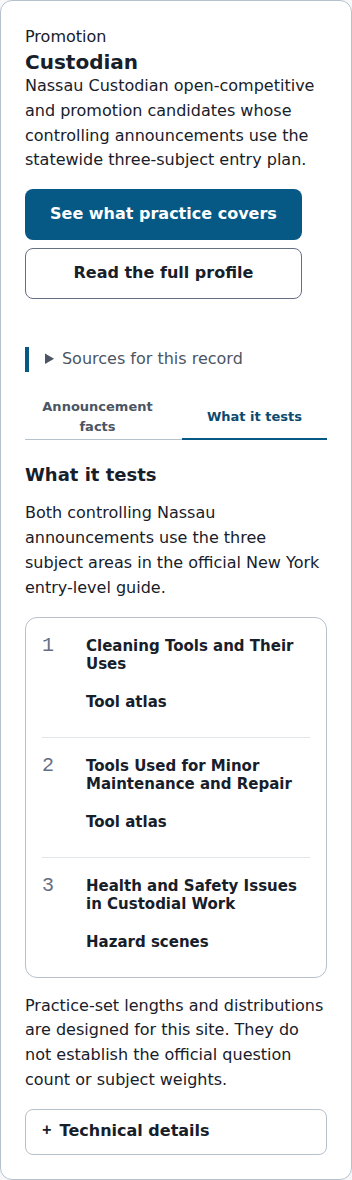
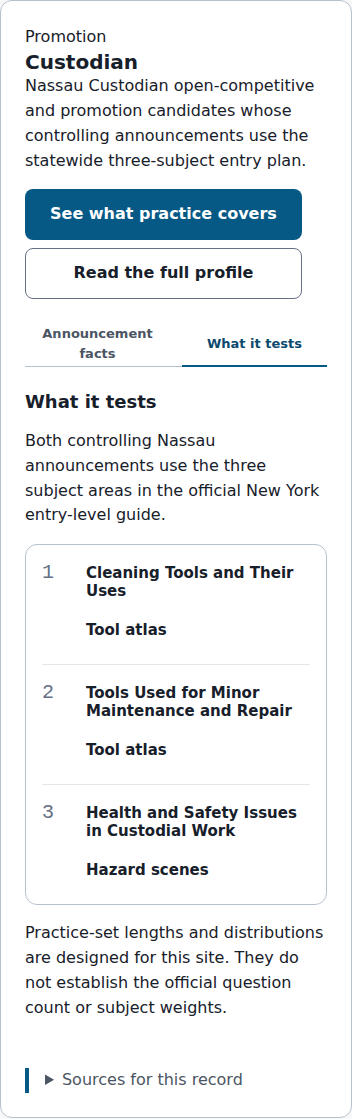
Consolidate Exams record sources and align registry controls

diff --git a/apps/site/scripts/generate-pages.tsx b/apps/site/scripts/generate-pages.tsx
@@ -1395,16 +1395,17 @@ const buildPages = ({
     <div class="home-content">
       ${renderAnnouncementMilestones(announcementFacts, sourceLineById, sourceById, "exams-cycle")}
       <section class="home-section" id="exams-board" data-exam-browser aria-labelledby="exam-board-heading"><div class="section-header"><h2 id="exam-board-heading">Find your exam</h2><p>Open an entry to compare its facts. Your official announcement and admission notice govern your exam.</p></div>
-        <div class="search-field" data-exam-search-field hidden><label class="sr-only" for="exam-search">Search announcements and study plans</label>${navIcon("search")}<input id="exam-search" type="search" data-exam-search placeholder="Title, jurisdiction, or exam number" autocomplete="off"></div>
-        <div class="filter-group" role="group" aria-label="Filing status at source review" data-exam-status-filters hidden>${[["all", "All"], ["open", "Open for filing"], ["closed", "Filing closed"], ["plan", "Plan only"]].map(([value, label]) => `<button type="button" data-exam-status-filter="${value}" aria-pressed="${value === "all"}">${label}</button>`).join("")}</div>
+        <div class="exam-search-controls"><div class="search-field" data-exam-search-field hidden><label class="sr-only" for="exam-search">Search announcements and study plans</label>${navIcon("search")}<input id="exam-search" type="search" data-exam-search placeholder="Title, jurisdiction, or exam number" autocomplete="off"></div>
+        <div class="filter-group" role="group" aria-label="Filing status at source review" data-exam-status-filters hidden>${[["all", "All"], ["open", "Open for filing"], ["closed", "Filing closed"], ["plan", "Plan only"]].map(([value, label]) => `<button type="button" data-exam-status-filter="${value}" aria-pressed="${value === "all"}">${label}</button>`).join("")}</div></div>
         <p class="source-note">Filing labels describe the announcement at its source review date. Later notices or filing periods may exist.</p>
         <p class="source-note" data-exam-count role="status">${examRecords.length} entries in the published registry.</p>
         <div class="record-board"><ul class="record-list" aria-label="Available profiles">${examRecords.map((record) => `<li data-exam-row data-exam-status="${record.identity === null ? "plan" : record.filingReview?.state ?? "unknown"}" data-exam-search-text="${escapeHtml(`${record.title} ${record.kind} ${record.profile.jurisdiction} ${record.identity?.examNumber ?? ""}`.toLowerCase())}"><a class="record-item" data-exam-choice="${record.id}" href="#${record.id}"><strong>${escapeHtml(record.title)}</strong><span class="record-kind">${escapeHtml(record.kind)}</span><span class="record-when">${escapeHtml(record.profile.jurisdiction)}</span><span class="status-chip ${record.filingReview?.state === "closed" ? "status-chip-warning" : "status-chip-neutral"}">${record.identity === null ? "Plan only" : record.filingReview?.state === "closed" ? "Filing closed" : record.filingReview?.state === "open" ? "Open for filing" : "Status unverified"}</span>${record.filingReview === undefined ? "" : `<span class="record-when">Reviewed ${escapeHtml(publicDate(record.filingReview.reviewedOn))}</span>`}</a><div class="exam-card-coverage"><p>${record.identity === null ? "The statewide guide names three subject areas. Your own announcement controls which apply." : escapeHtml(record.profile.testPlanCompatibility.detail)}</p><a class="button button-primary" href="/practice/#covers">See what practice covers</a></div></li>`).join("")}</ul>
           <div class="record-detail-stack"><section class="record-detail" data-exam-prompt hidden><h3>Start with the title on your announcement</h3><p>Choose an entry to read its facts and source support. Reading an entry does not change your study settings.</p></section>${examRecords.map((record) => `<article class="record-detail" id="${record.id}" data-exam-panel tabindex="-1" aria-labelledby="${record.id}-heading"><div class="record-detail-header"><div><p class="record-kind">${escapeHtml(record.kind)}</p><h3 id="${record.id}-heading">${escapeHtml(record.title)}</h3><p>${escapeHtml(record.profile.audience)}</p></div><div class="record-detail-actions"><a class="button button-primary" href="/practice/#covers">See what practice covers</a><a class="button button-secondary" href="${record.profile.canonicalPath}">Read the full profile</a></div></div>
-            <details class="source-note record-source-trail"><summary>Sources for this record</summary>${sourceProofLine([...new Set(record.identity === null ? record.profile.testPlanCompatibility.sourceLineIds : record.facts.flatMap((fact) => [...fact.sourceLineIds, ...fact.conflictingValues.flatMap((value) => value.sourceLineIds)]))], record.identity === null ? [record.profile.contentAvailability.lastVerifiedOn] : record.facts.map((fact) => fact.reviewedOn), sourceLineById, sourceById)}</details>
+
             <div class="tabs" role="tablist" aria-label="${escapeHtml(record.title)} details" data-exam-tabs hidden><button type="button" id="${record.id}-facts-tab" role="tab" aria-selected="true" aria-controls="${record.id}-facts" data-record-tab="facts">Announcement facts</button><button type="button" id="${record.id}-subjects-tab" role="tab" aria-selected="false" aria-controls="${record.id}-subjects" data-record-tab="subjects" tabindex="-1">What it tests</button></div>
-            <section id="${record.id}-facts" data-record-tab-panel="facts"><h4>Announcement facts</h4>${record.identity === null ? `<p>${escapeHtml(record.profile.testPlanCompatibility.detail)}</p><p>This statewide study plan has no exam number or filing period. Use your jurisdiction’s announcement for those details.</p>` : `<dl class="fact-table">${record.facts.filter((fact) => ["filing_period", "exam_date", "fee", "qualifications", "jurisdictions", "administration_status"].includes(fact.category)).map((fact) => `<div><dt>${escapeHtml(fact.label)}</dt><dd>${fact.state === "verified" ? "" : `<span class="fact-state fact-state-${fact.state}">${fact.category === "administration_status" && fact.state === "unverified" ? "Not confirmed" : factStateLabel(fact.state)}</span> `}${escapeHtml(fact.value ?? fact.detail ?? "No value asserted.")}<details class="source-note technical-details"><summary>Technical details</summary>${sourceLineLinks(fact.sourceLineIds, sourceLineById, sourceById)}<p>Checked ${escapeHtml(publicDate(fact.reviewedOn))}.</p></details></dd></div>`).join("")}</dl>`}<details class="source-note"><summary>Technical details</summary><p>${record.identity === null ? "No exam number at the statewide study-plan level." : `Exam number ${escapeHtml(record.identity.examNumber)}.`} Profile version ${record.profile.version}. Content reviewed ${escapeHtml(publicDate(record.profile.contentAvailability.lastVerifiedOn))}.</p></details></section>
-            <section id="${record.id}-subjects" data-record-tab-panel="subjects"><h4>What it tests</h4><p>${escapeHtml(record.profile.testPlanCompatibility.detail)}</p>${scopeList}<p>Practice-set lengths and distributions are designed for this site. They do not establish the official question count or subject weights.</p><details class="technical-details"><summary>Technical details</summary>${sourceLineLinks(record.profile.testPlanCompatibility.sourceLineIds, sourceLineById, sourceById)}</details></section>
+            <section id="${record.id}-facts" data-record-tab-panel="facts"><h4>Announcement facts</h4>${record.identity === null ? `<p>${escapeHtml(record.profile.testPlanCompatibility.detail)}</p><p>This statewide study plan has no exam number or filing period. Use your jurisdiction’s announcement for those details.</p>` : `<dl class="fact-table">${record.facts.filter((fact) => ["filing_period", "exam_date", "fee", "qualifications", "jurisdictions", "administration_status"].includes(fact.category)).map((fact) => `<div><dt>${escapeHtml(fact.label)}</dt><dd>${fact.state === "verified" ? "" : `<span class="fact-state fact-state-${fact.state}">${fact.category === "administration_status" && fact.state === "unverified" ? "Not confirmed" : factStateLabel(fact.state)}</span> `}${escapeHtml(fact.value ?? fact.detail ?? "No value asserted.")}</dd></div>`).join("")}</dl>`}</section>
+            <section id="${record.id}-subjects" data-record-tab-panel="subjects"><h4>What it tests</h4><p>${escapeHtml(record.profile.testPlanCompatibility.detail)}</p>${scopeList}<p>Practice-set lengths and distributions are designed for this site. They do not establish the official question count or subject weights.</p></section>
+            <details class="source-note record-source-trail"><summary>Sources for this record</summary>${sourceProofLine([...new Set(record.identity === null ? record.profile.testPlanCompatibility.sourceLineIds : record.facts.flatMap((fact) => [...fact.sourceLineIds, ...fact.conflictingValues.flatMap((value) => value.sourceLineIds)]))], record.identity === null ? [record.profile.contentAvailability.lastVerifiedOn] : record.facts.map((fact) => fact.reviewedOn), sourceLineById, sourceById)}${record.identity === null ? sourceLineLinks(record.profile.testPlanCompatibility.sourceLineIds, sourceLineById, sourceById) : `<dl class="record-fact-sources">${record.facts.map(fact => `<div data-source-fact="${escapeHtml(fact.id)}"><dt>${escapeHtml(fact.label)}</dt><dd><p>Checked ${escapeHtml(publicDate(fact.reviewedOn))}.</p>${sourceLineLinks([...new Set([...fact.sourceLineIds, ...fact.conflictingValues.flatMap(value => value.sourceLineIds)])], sourceLineById, sourceById)}</dd></div>`).join("")}</dl>`}<p>${record.identity === null ? "No exam number at the statewide study-plan level." : `Exam number ${escapeHtml(record.identity.examNumber)}.`} Profile version ${record.profile.version}. Content reviewed ${escapeHtml(publicDate(record.profile.contentAvailability.lastVerifiedOn))}.</p></details>
           </article>`).join("")}</div>
         </div><div class="empty-state" data-exam-empty hidden><h3 tabindex="-1">No entries match these filters</h3><p>Clear the filters to see every announcement and study plan in this published registry.</p><button class="button button-secondary" type="button" data-exam-clear>Clear filters</button></div>
       </section>

diff --git a/apps/site/browser-tests/design-handoff.pw.ts b/apps/site/browser-tests/design-handoff.pw.ts
@@ -1,3 +1,4 @@
+import catalog from "../../../content/releases/vertical-slice/catalog.json" with { type: "json" }
 import AxeBuilder from "@axe-core/playwright"
 import { expect, test, type Page } from "@playwright/test"
 
@@ -262,4 +263,57 @@ test("filing filters compose with search, restore from the URL, and never select
   await expect(page.locator("[data-exam-prompt]")).toBeHidden()
   await expectPageReflow(page)
   expect(await page.evaluate(() => JSON.stringify({ ...localStorage }))).toBe(before)
+})
+
+
+test("exam controls align on desktop and compact records omit the empty selection panel", async ({ page }) => {
+  for (const width of [1248, 384]) {
+    await page.setViewportSize({ width, height: 900 })
+    await page.goto("/exams/")
+    const search = page.getByRole("searchbox")
+    const filters = page.getByRole("group", { name: "Filing status at source review" })
+    await expect(search).toBeVisible()
+    const searchBox = (await search.boundingBox())!
+    const filterBox = (await filters.boundingBox())!
+    if (width === 1248) expect(Math.abs(searchBox.y - filterBox.y)).toBeLessThan(10)
+    else {
+      expect(filterBox.y).toBeGreaterThan(searchBox.y + searchBox.height)
+      await expect(page.locator("[data-exam-prompt]")).toBeHidden()
+    }
+    await page.locator("[data-exam-choice]").first().click()
+    const panel = page.locator("[data-exam-panel]:visible")
+    await expect(panel.locator(".fact-table details")).toHaveCount(0)
+    await expect(panel.locator(".record-source-trail")).toHaveCount(1)
+    await panel.getByText("Sources for this record", { exact: true }).click()
+    await expect(panel.locator(".record-fact-sources")).toBeVisible()
+    await expectPageReflow(page)
+  }
+})
+
+test("every announcement fact keeps its exact source excerpt without JavaScript", async ({ browser, baseURL }) => {
+  if (baseURL === undefined) throw new Error("Browser base URL is required")
+  const context = await browser.newContext({ baseURL, javaScriptEnabled: false, viewport: { width: 384, height: 900 } })
+  try {
+    const page = await context.newPage()
+    await page.goto("/exams/")
+    const facts = catalog.profiles.flatMap(profile => profile.announcementFactSheet?.facts ?? [])
+    const expectedSourceRows = catalog.profiles.reduce((total, profile) => total + profile.examIdentities.reduce((count, identity) => count + (profile.announcementFactSheet?.facts.filter(fact => fact.state !== "superseded" && fact.appliesToExamNumbers.includes(identity.examNumber)).length ?? 0), 0), 0)
+    expect(expectedSourceRows).toBeGreaterThan(0)
+    await expect(page.locator("[data-source-fact]")).toHaveCount(expectedSourceRows)
+    const panels = page.locator("[data-exam-panel]")
+    for (const panel of await panels.all()) {
+      await panel.getByText("Sources for this record", { exact: true }).click()
+      for (const row of await panel.locator("[data-source-fact]").all()) {
+        const id = await row.getAttribute("data-source-fact")
+        const fact = facts.find(fact => fact.id === id)!
+        expect(fact).toBeDefined()
+        await expect(row.locator("dt")).toHaveText(fact.label)
+        for (const lineId of new Set([...fact.sourceLineIds, ...(fact.conflictingValues as ReadonlyArray<{ sourceLineIds: readonly string[] }>).flatMap(value => value.sourceLineIds)])) {
+          const line = catalog.sourceLines.find(line => line.id === lineId)!
+          await expect(row).toContainText(line.excerpt)
+          await expect(row).toContainText(line.locator)
+        }
+      }
+    }
+  } finally { await context.close() }
 })

diff --git a/apps/site/src/design-system.css b/apps/site/src/design-system.css
@@ -1093,3 +1093,17 @@
     .exams-cycle-summary .timeline-item-warning time { font-weight: 700; }
   }
 }
+
+
+@layer overrides {
+  .exam-search-controls { display: grid; grid-template-columns: minmax(0, 1fr) auto; gap: var(--space-3); align-items: center; }
+  .exam-search-controls:not(:has(> :not([hidden]))) { display: none; }
+  .exam-search-controls .filter-group { margin: 0; }
+  .record-fact-sources { display: grid; gap: var(--space-5); }
+  .record-fact-sources dt { font-weight: var(--weight-bold); }
+  .record-fact-sources dd { margin: var(--space-2) 0 0; }
+  @media (max-width: 47.99rem) {
+    .exam-search-controls { grid-template-columns: minmax(0, 1fr); }
+    .exams-page [data-exam-prompt] { display: none; }
+  }
+}

diff --git a/design-review/2026-09-07/IMPLEMENTATION-STATUS.md b/design-review/2026-09-07/IMPLEMENTATION-STATUS.md
@@ -14,7 +14,7 @@ The active task is the complete handoff in `/mnt/models/dev/nycustodianexam/IMPL
 | Hazard player | HAZARD-PLAYER-REVIEW.md: responsive workspace, header/save panel, nine real-state captures and nine regression tests | Visual/keyboard layout, integrated retained-image overlay, correction/safe groups and compact recovery captured; final cross-browser and matching-width visual audit remain |
 | Simulation player/results | SIMULATION-NAVIGATOR-REVIEW.md and SIMULATION-FLOW-REVIEW.md: navigator, player/timer and question-result captures at 1008/384; restore/focus checks; 24 three-browser regressions pass | Visual/keyboard hazard player/results now captured at both widths; no-concerns target corrected and six three-browser hazard regressions pass; final integrated audit and separate Static Assets check remain |
 | Print configuration | Ten products and effective controls; reviewed document scope | PRINT-OUTPUT-REVIEW.md: actual Letter/A4 question PDFs and searchable-text fix; preview rows/actions and warning/error panels reconciled; twelve ready/recovery captures and 27 three-browser print checks pass; fresh Letter/A4 PDFs retain searchable text; all 45 extended large-print/tool PDF pages audited and grid-fragmentation overlap fixed; current PDFs and per-page verification retained; 42 hazard worksheet/answer/text PDF pages audited with pagination fixes; large-print heading/URL sizing fixed with fresh PDF evidence; source-inclusive hazard estimates now finalize from assembled content; final other-product PDF refresh remains |
-| Exams / Settings / Offline / report | UTILITY-PAGES-REVIEW.md: first-visit desktop/compact captures, Settings action layout/Offline grouping and recovery checks | Delete preview cancellation/captures verified; returning saved-work counts and Offline installed summaries now use actual storage with empty/unavailable captures; export contents scope is disclosed; Exams header/compact cards and announcement-first ordering reconciled with six three-browser checks and refreshed overview/record captures; cycle responsive order/source disclosure reconciled with 17 generation tests and nine three-browser checks; source-bound filing classifications and combined URL-restored filters implemented with 22 unit and 12 three-browser checks; date milestones consolidated with bound-source metadata and matching compact rows; full-page audit captured; record-source density, desktop filter arrangement, compact selection prompt, and report comparison remain; coverage action and three-browser navigation checks pass; all record/tab states captured; actual Offline active/removal/unavailable states captured |
+| Exams / Settings / Offline / report | UTILITY-PAGES-REVIEW.md: first-visit desktop/compact captures, Settings action layout/Offline grouping and recovery checks | Delete preview cancellation/captures verified; returning saved-work counts and Offline installed summaries now use actual storage with empty/unavailable captures; export contents scope is disclosed; Exams header/compact cards and announcement-first ordering reconciled with six three-browser checks and refreshed overview/record captures; cycle responsive order/source disclosure reconciled with 17 generation tests and nine three-browser checks; source-bound filing classifications and combined URL-restored filters implemented with 22 unit and 12 three-browser checks; date milestones consolidated with bound-source metadata and matching compact rows; full-page audit captured; record-source consolidation, desktop filter alignment, and compact prompt removal verified with 60 browser checks and refreshed captures; compact page density, missing reference format section, and report comparison remain; coverage action and three-browser navigation checks pass; all record/tab states captured; actual Offline active/removal/unavailable states captured |
 | Final validation/publication | First-slice local commit; next slice in progress | Combined 102 core browser checks yielded 100 passes and two Offline reflow failures; scoped grid fix passes all nine targeted cross-browser checks. Remaining full-family checks, evidence index, clean local commits, reviewable publication; never merge/deploy automatically |
 
 Important discovered content difference: the original 90-question simulation metadata had 30 cleaning, 37 maintenance, 5 safety, and 18 mixed/scenario questions; pack v4 adds one illustrated maintenance item (91 total), not the prototype's 34/26/30. Preserve real classification and counts. Internal session/profile/version references remain required; global exam selection is removed.

diff --git a/design-review/2026-09-07/UTILITY-PAGES-REVIEW.md b/design-review/2026-09-07/UTILITY-PAGES-REVIEW.md
@@ -229,3 +229,32 @@ and full build/artifact verification pass. The focused no-JavaScript scroll test
 passes across Chromium, Firefox, and WebKit after the scroll-padding correction.
 The complete shared-navigation/design-handoff browser suite passes after the
 shared scroll-padding change: 54 checks across all three browsers.
+
+## Exams record-source consolidation — September 9
+
+Desktop search and filing controls now share one row; compact controls stack.
+The empty choose-an-entry prompt is suppressed only at compact widths. Record
+facts no longer repeat technical disclosures. One Sources for this record
+disclosure follows both tab panels, retaining each applicable fact's label,
+review date, source excerpt, locator, and conflict-source links. The statewide
+plan retains its full subject-plan support. Exam/profile metadata remains in
+that disclosure. Reading records still does not select a study exam.
+
+Refreshed all 12 record/tab captures and the 20-state overview capture set.
+Visually inspected the first desktop record panel and full desktop record-open
+and compact first-visit pages against references 09/10 at 1248/384 CSS widths.
+The desktop full page is now 3065px tall (reference 2907px); compact first visit
+is 3505px (reference 2255px). These are observations, not fidelity certification.
+The three preceding layout issues are resolved. Further work remains: compact
+search/status/count copy and footer make the page longer than the reference,
+and its “How the real test works” section is absent. Review those differences
+against the maintained facts before adding any official-format assertions.
+Real jurisdiction restrictions and unconfirmed administration remain intact.
+
+Validation: full build/artifact verification passes (939 routes, 222 published
+item artifacts, 291 byte-identical assets); site and browser typechecks pass;
+25 generation/filing/timeline unit tests pass; all 60 design-handoff browser
+checks pass across Chromium, Firefox, and WebKit. New checks verify desktop
+control alignment, compact prompt suppression, expanded-source reflow, and
+nonzero exact fact-source row counts plus every referenced excerpt/locator
+without JavaScript. Capture scripts reported no page errors.
